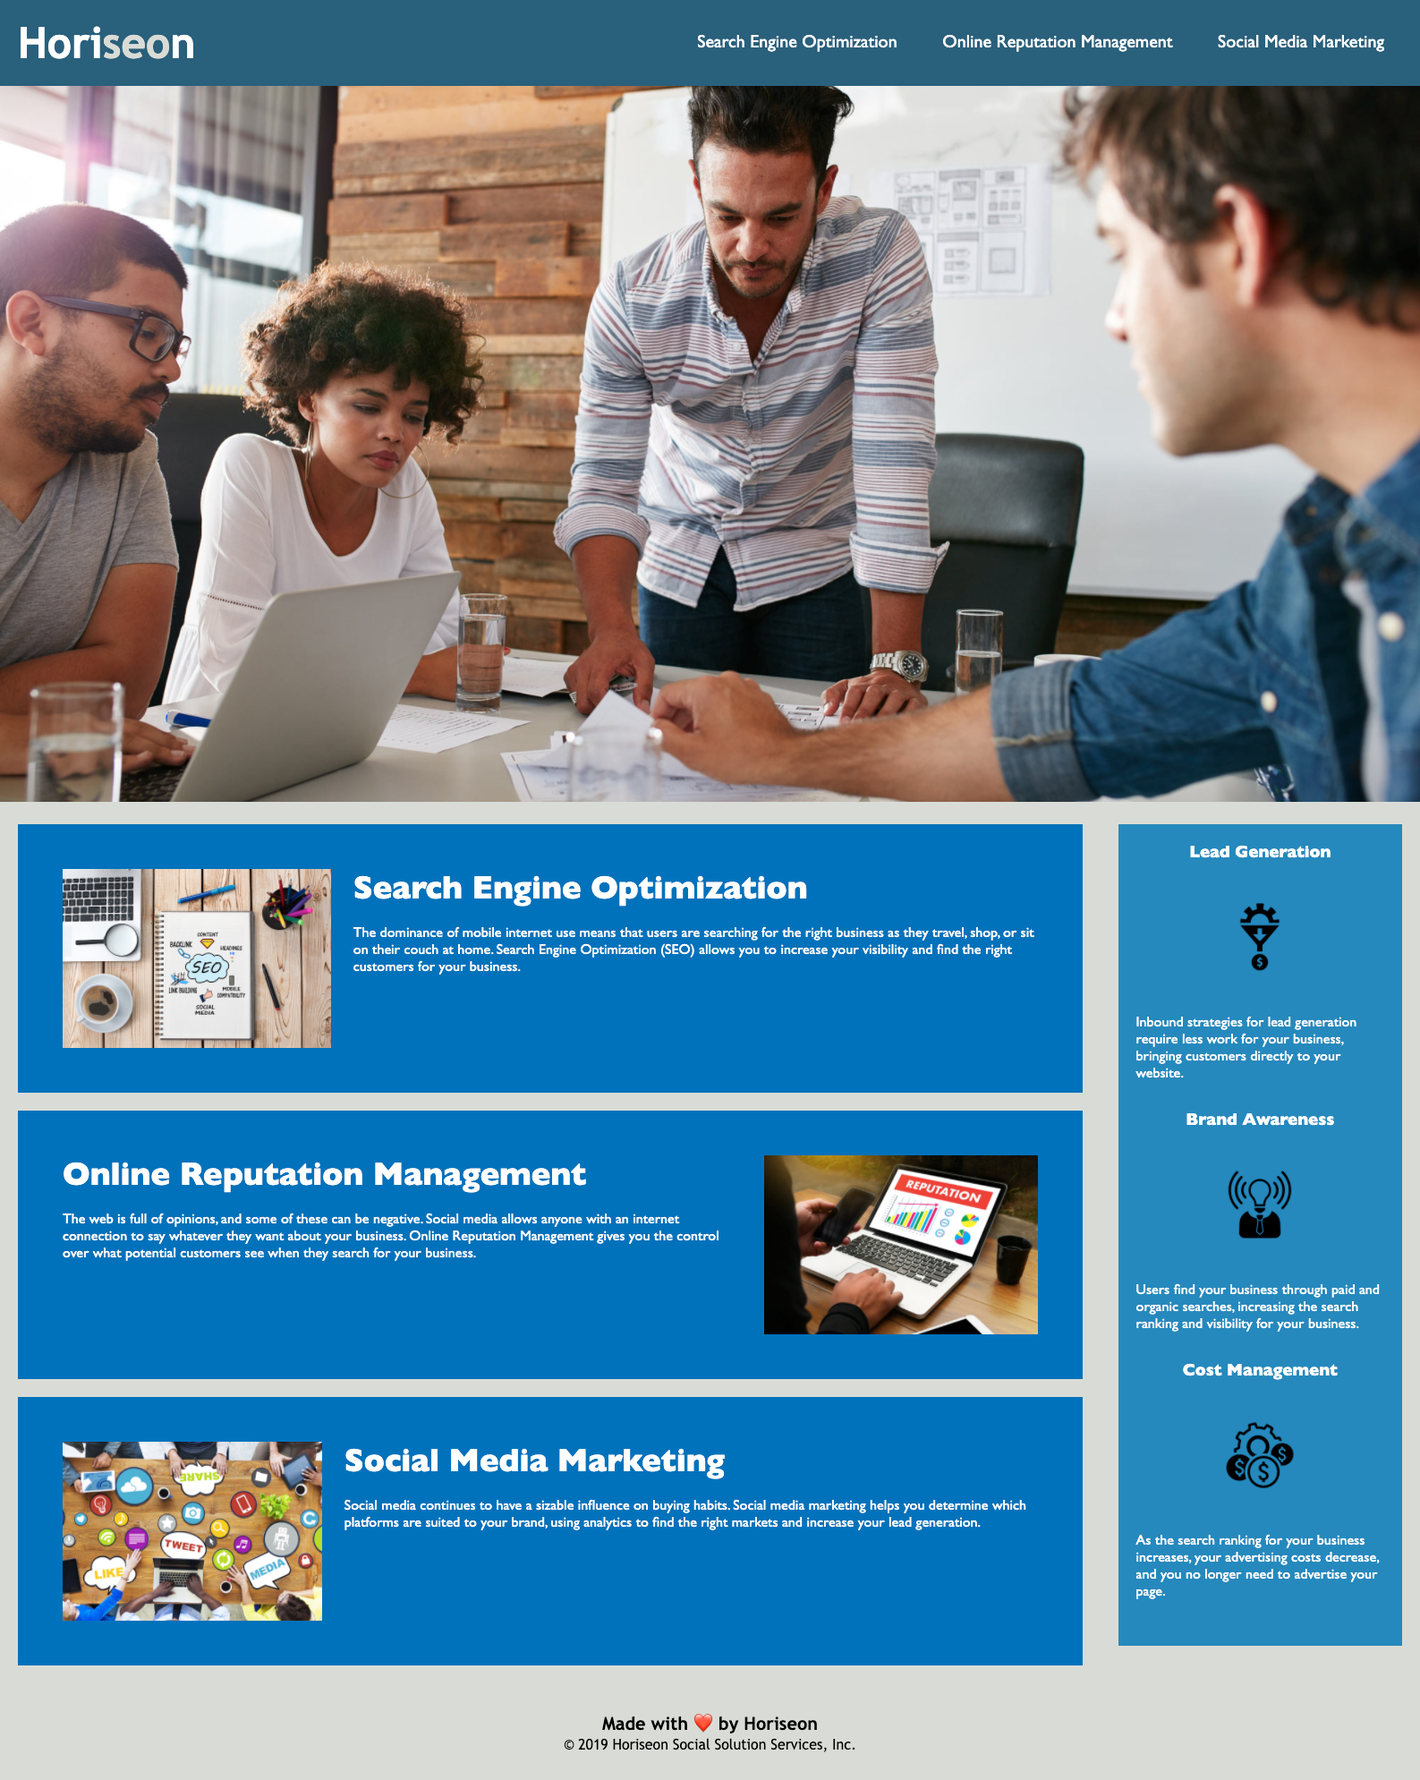
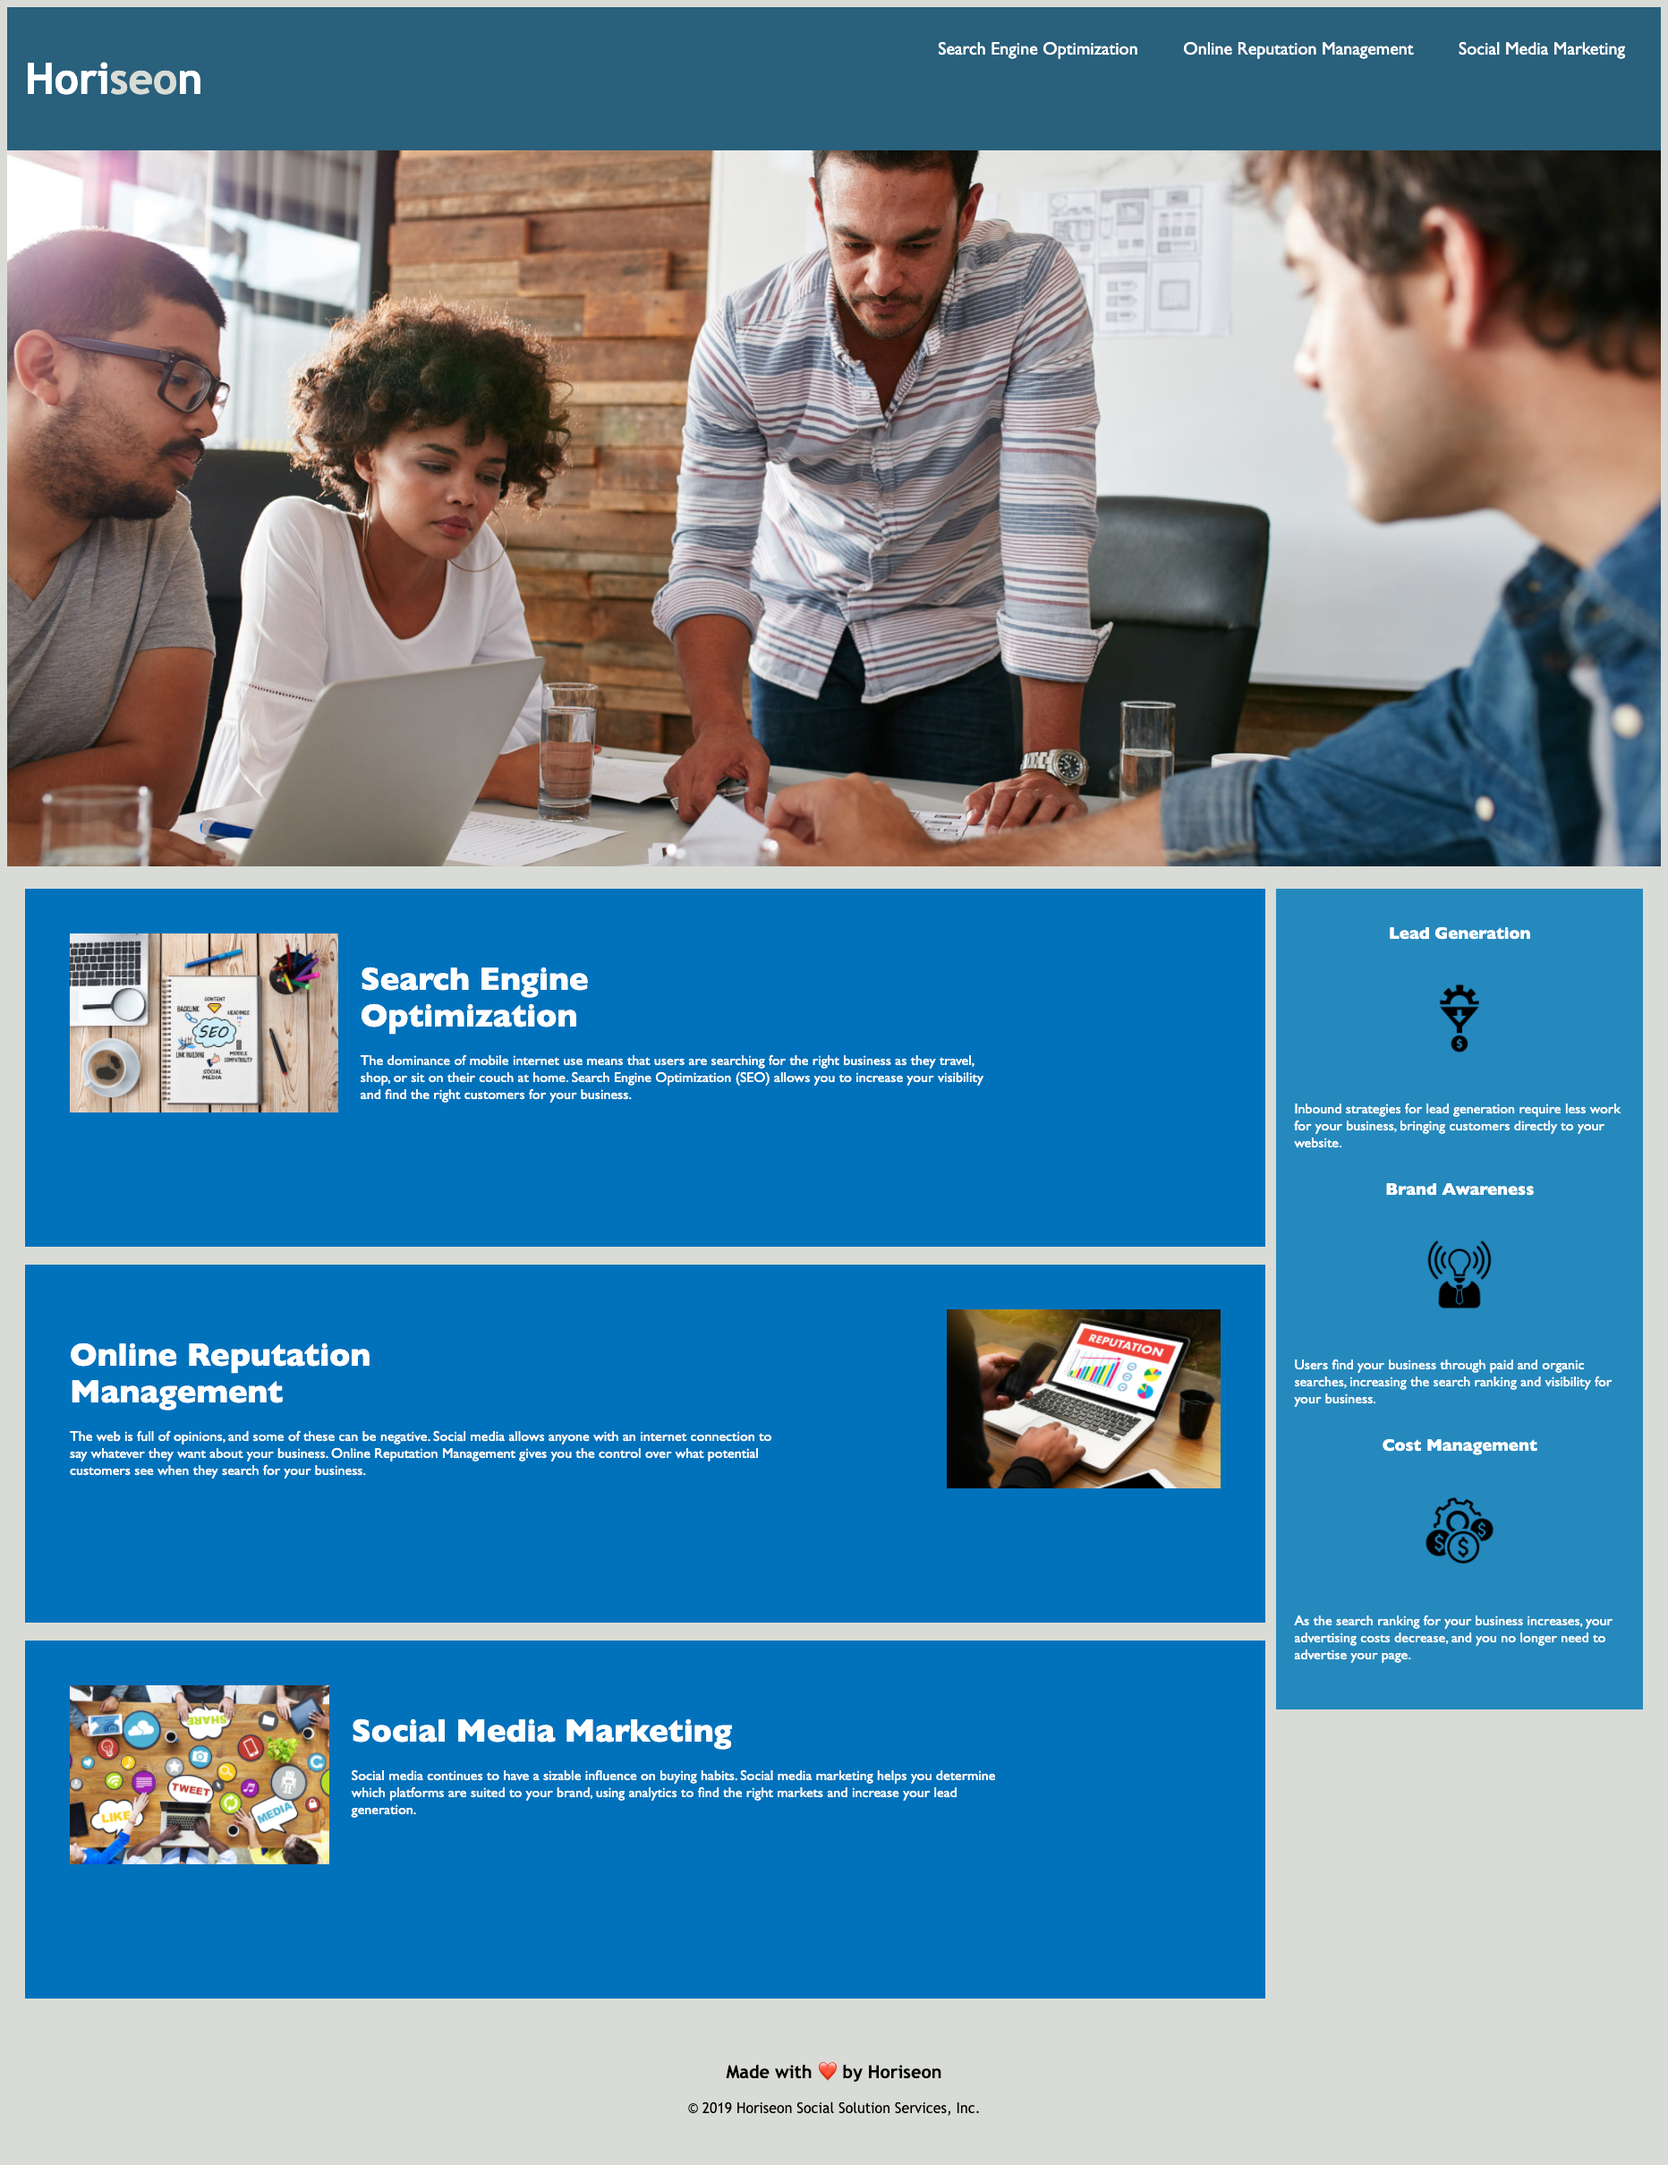
fixed css error, updated screenshot, added line breaks

diff --git a/index.html b/index.html
@@ -26,7 +26,7 @@
           alt="search engine optimization"
         />
         <article class="article-right">
-        <h2>Search Engine Optimization</h2>
+        <h2>Search Engine<br> Optimization</h2>
         <p>
           The dominance of mobile internet use means that users are searching
           for the right business as they travel, shop, or sit on their couch at
@@ -45,7 +45,7 @@
           alt="online reputation management"
         />
         <article class="article-left">
-        <h2>Online Reputation Management</h2>
+        <h2>Online Reputation<br> Management</h2>
         <p>
           The web is full of opinions, and some of these can be negative. Social
           media allows anyone with an internet connection to say whatever they

diff --git a/assets/css/style.css b/assets/css/style.css
@@ -1,4 +1,4 @@
-# RESET
+/* # RESET */
 * {
   box-sizing: border-box;
   padding: 0;
